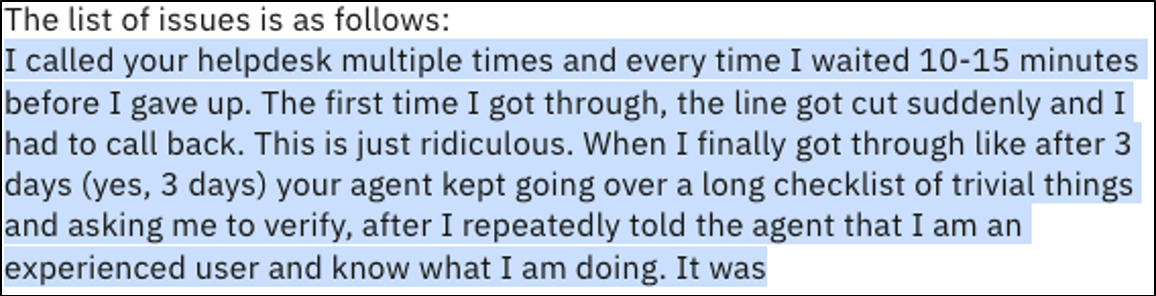
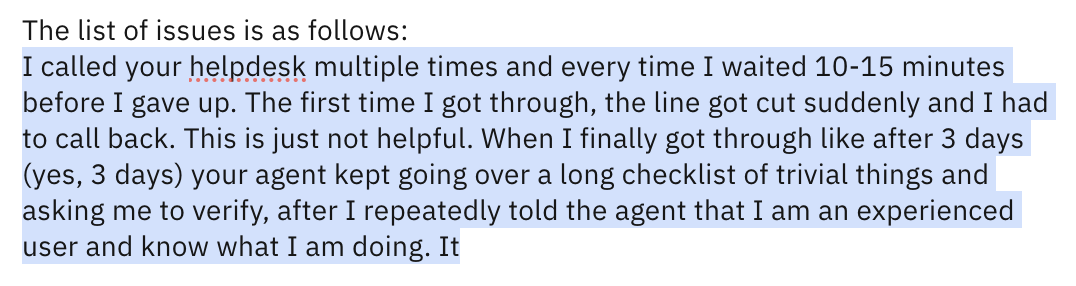
chore(.ai): update labs to reflect model changes
update 102 for model deprecation & screenshots

update 103

update 104

diff --git a/content/Watsonx/WatsonxAI/102.md b/content/Watsonx/WatsonxAI/102.md
@@ -22,7 +22,7 @@ If you have already been working in the Prompt Lab, [open a new Prompt Lab sessi
 
 2. We will again start with a slightly modified prompt. Edit the **Details** field in the **Try** section, adding "Do not add any additional information." as the final instruction. Click **Generate**.
 
-    You should see the same output as before, with the hallucinated url.
+    You should see the same output as before.
 
     ![flan-ul2_output](./images/101/flan-ul2-output.png)
 
@@ -82,7 +82,7 @@ If you have already been working in the Prompt Lab, [open a new Prompt Lab sessi
 
     ![temp_topp_output](./images/102/temp-topp-output.png)
 
-    Notice by lowering the creativity the output changed quite a bit and we no longer have the website hallucination.
+    Notice by lowering the creativity the output changed quite a bit, and we now have a rather lengthy thank you ending.
 
 6. Reset the **Temperature** value to **0.8**, and lower the **Top P** value from **1** to **0.5**. This means the next token will be chosen randomly from the top number of tokens whose collective probability is greater than 0.5. Click **Generate** again. 
 
@@ -96,9 +96,9 @@ If you have already been working in the Prompt Lab, [open a new Prompt Lab sessi
 
     ![topk_output](./images/102/topk-output.png)
 
-    The output has reverted to the original, with the url hallucination.  The model is now choosing the next token from the 25 tokens with the highest probability, so clearly the update to **Top P** resulted in fewer than 25 options for the next token.
+    The output has reverted to the original. The model is now choosing the next token from the 25 tokens with the highest probability, so clearly the update to **Top P** resulted in fewer than 25 options for the next token.
 
-8. Continue lowering the **Top K** value.  Notice that you'll have to lower it quite far (to about 4) to get rid of the hallucination and see output similar to what we got with the **Top P** modification. 
+8. Continue lowering the **Top K** value. Notice that if you lower it quite far (to about 10) you should see pretty good output with accurate info.
 
     ![topk_output2](./images/102/topk-output2.png)
 
@@ -145,9 +145,17 @@ Remember that a foundation model does not read and interpret a prompt like a hum
 4. Ensure that you are using the **flan-ul2-20b** model.  Copy and paste the following text in the input field:
 
     ```txt
-    The following paragraph is a consumer complaint. 
+    The following paragraph is a consumer complaint.
 
-    Read the following paragraph and list all the issues.   I called your helpdesk multiple times and every time I waited 10-15 minutes before I gave up. The first time I got through, the line got cut suddenly and I had to call back. This is just ridiculous. When I finally got through like after 3 days (yes, 3 days) your agent kept going over a long checklist of trivial things and asking me to verify, after I repeatedly told the agent that I am an experienced user and I know what I am doing. It was a complete waste of time. After like an eternity of this pointless conversation, I was told that an SME will contact me. That – was 2 days ago. What is the problem with your support system?
+    Read the following paragraph and list all the issues. I called your helpdesk 
+    multiple times and every time I waited 10-15 minutes before I gave up. The first 
+    time I got through, the line got cut suddenly and I had to call back. This is just not 
+    helpful. When I finally got through like after 3 days (yes, 3 days) your agent kept 
+    going over a long checklist of trivial things and asking me to verify, after I 
+    repeatedly told the agent that I am an experienced user and I know what I am 
+    doing. It was a complete waste of time. After like an eternity of this pointless 
+    conversation, I was told that an SME will contact me. That – was 2 days ago. What 
+    is the problem with your support system?
 
     The list of issues is as follows:
     ```
@@ -175,11 +183,11 @@ Remember that a foundation model does not read and interpret a prompt like a hum
 
     This is only a slight improvement. The flan models do not seem well-suited for generating a list with zero shot prompts.
 
-6. Change the model to the **mpt-7b-instruct2** model. Remove the "1." from the prompt and click **Generate**. You should see the following:
+6. Change the model to the **granite-13b-instruct-v2** model. Remove the "1." from the prompt and click **Generate**. You should see something close to the following:
 
     ![list_output3](./images/102/list-output3.png)
 
-    This looks more like what a human would expect. For this kind of request, the **mpt-7b-instruct2** model is much better than the flan models. Additionally, the model correctly interpretted that the customer was frustrated with the support system, although this was not explicitly stated. 
+    This looks more like what a human would expect. For this kind of request, the **granite-13b-instruct-v2** model is much better than the flan models. Additionally, the model correctly interpretted that the customer was frustrated with the support system, although this was not explicitly stated. 
 
 ### Prompting for JSON output
 
@@ -206,19 +214,19 @@ When using LLM's programmatically it can be advantageous to retrieve generated d
 
     The flan model responded with natural language output, which is the strength of the flan model. But clearly this is not the requested JSON.
 
-4. Select the **mpt-7b-instruct2** model and click **Generate**. You should see the following output.
+4. Select the **granite-13b-instruct-v2 ** model and click **Generate**. You should see the following output.
 
     ![json_output2](./images/102/json-output2.png)
 
-    This is the valid JSON we are looking for. Again, the smaller mpt-7b-instruct2 model seems best for the use case. 
+    This is the valid JSON we are looking for. Again, the smaller granite-13b-instruct-v2  model seems best for the use case. 
 
-5. Now let's try with the **starcoder-15.5b** model, which is trained for code generation. Select this model and click **Generate**. You should see:
+5. Now let's try with the **codellama-34b-instruct-hf** model, which is trained for code generation. Select this model and click **Generate**. You should see:
 
     ![json_output3](./images/102/json-output3.png)
 
-    Here we have a valid JSON, but with 3 double-quotes (") at the bottom. This may be due to Python code using triple quotes to delineate multi line strings.
+    Here we have a valid JSON, but the indentation has some issues, and there is a lot of white space.
 
-6. If we still wanted to go with the **starcoder-15.5b**, we can use **Stop sequences** to eliminate the triple double-quotes. Open the **Model parameters** panel and enter `}<carriage return>}` in the Stop sequences text box. (You can type a carriage return by pressing the *Enter* or *Return* key on your keyboard.)
+6. If we still wanted to go with the **codellama-34b-instruct-hf**, we can use **Stop sequences** to clean up the output. Open the **Model parameters** panel and enter `}↵}` in the Stop sequences text box. (You can type a carriage return by pressing the *Enter* or *Return* key on your keyboard.) Let's also add an instruction to format the output. The updated instructions should read: `Create a JSON file output with the following information, and please format it properly.`
 
     <QuizAlert text='Quiz question on stop sequences!' />
 

diff --git a/content/Watsonx/WatsonxAI/101.md b/content/Watsonx/WatsonxAI/101.md
@@ -91,21 +91,25 @@ Other controls, like updating inference configuration parameters, will be discus
 
 ## Exploring foundation models with a zero-shot prompt
 
-There are 6 open-source foundation models available in watsonx.ai as of 4Q2023.
+There are the available foundation models in watsonx.ai as of March 2024.
 
 | Model | Architecture | Parameters | Trained by | Usage |
 | ----- | ------------ | ---------- | ---------- | ----- |
-| flan-ul2-20b | Encoder-decoder | 20b | Google | Generation, Extraction, Summarization, Classification, Question Answering, RAG |
-| Starcoder-15-5b | Decoder only |15.5b | BigCode | Code generation, Code conversion |
+| Starcoder-15-5b * | Decoder only |15.5b | BigCode | Code generation, Code conversion |
 | mt0-xxl-13b | Encoder-decoder | 13b | BigScience | Generation, Summarization, Classification, Question Answering |
-| gpt-neox-20b | Decoder only | 20b  | EleutherAI | Generation, Summarization, Classification |
+| codellama-34b-instruct-hf | Encoder-decoder | 34b | Code Llama | Code generation and conversion |
+| flan-t5-xl-3b | Encoder-decoder | 3b | Google | Generation, Extraction, Summarization, Classification, Question Answering, RAG |
 | flan-t5-xxl-11b | Encoder-decoder | 11b | Google | Generation, Extraction, Summarization, Classifciation, Question Answering, RAG |
-| mpt-7b-instruct2 | Decoder only | 7b | IBM | Generation, Extraction, Summarization, Classification |
+| flan-ul2-20b | Encoder-decoder | 20b | Google | Generation, Extraction, Summarization, Classification, Question Answering, RAG |
+| mixtral-8x7b-instruct-v01-q | Decoder only | 46.7b | Mistral AI, tuned by IBM | Summarization, RAG, Classification, Generation, Code generation and conversion, Extraction |
+| llama-2-13b-chat | Decoder only | 13b | Meta | Generation, Extraction, Summarization, Classification, Question Answering, RAG, Code generation, Code conversion |
 | llama-2-70b-chat | Decoder only | 70b | Meta | Generation, Extraction, Summarization, Classification, Question Answering, RAG, Code generation, Code conversion |
+
+\* Deprecated
 
 More will be added as other foundation models are vetted and deemed appropriate for watsonx.ai.  
 
-> There are also 2 IBM models available, the granite-13b-chat-v1 and granite-13b-instruct-v1 models, which will be covered in detail in a future iteration of this lab. 
+> There are also several IBM models available, the granite-13b-chat-v2, granite-13b-instruct-v2 and granite-20b-multilingual models, which will be covered in detail in a future iteration of this lab. 
 
 1.  On the <span>left hand panel</span>, click the sample prompt icon, **]&#8414;[**.
 
@@ -180,6 +184,8 @@ More will be added as other foundation models are vetted and deemed appropriate 
 
     This will bring up the following panel of available foundation models.
 
+    > **Note:** If you are using watsonx.ai on-prem you may see different models as supported by your GPUs.
+
     ![foundation_models](./images/101/foundation-model-panel.png)
 
     Selecting any of these options will show more information in the form of a model card. 
@@ -202,16 +208,15 @@ More will be added as other foundation models are vetted and deemed appropriate 
 
     > Note: the larger model hallucinated a phone number for the bank. Here is an example where a larger foundation model performed worse than the smaller one. 
 
-10. Repeat Steps 6-9, this time selecting the **mpt-7b-instruct-2** model. You should see the following generated output:
+10. Repeat Steps 6-9, this time selecting the **mt0-xxl-13b** model. You should see the following generated output:
     
-    ![mpt-7b_output](./images/101/mpt-7b-email-output.png)
-    > NOTE: This model also hallucinated, adding a date of Dec 12, 2021.  This is likely due to this particular model being trained on data up to 2021. 
+    ![mt0-xxl_output](./images/101/mt0-xxl-email-output.png)
+    > NOTE: This model also hallucinated, adding a date of July 15, 2016.  This is likely due to this particular model being trained on data up to 2016. 
 
 11. Switch to the **llama-2-70b-chat** model and try the same prompt one more time.  You should see the following output:
 
     ![llama2_output](./images/101/llama2-email-output.png)
-    This model hallucinated a URL for the bank and included a July date but misses the important detail of July 15. 
-
+    This output is decent but has some issues with spelling and weird characters. Here we want to illustrate that just because a model has more parameters, doesn't mean it gives you better output.
 
 
 ## Prompt engineering - updating a zero-shot prompt
@@ -228,9 +233,9 @@ Now let's experiment with altering our zero-shot prompt to see if we can achieve
 
     ![details_update](./images/101/details-update.png)
 
-    You should now see that the made up portion of "You can now monitor all of your Golden Bank accounts from home" has been removed.
+    You should now see a better answer without the "Contact us" line.
 
-4. Switch to the **flan-ul2-20b** model.  Recall in the previous lab this model hallucinated and provided a made up phone number. Click **Generate** to see how this model responds to the updated prompt. 
+4. Lets switch to the **flan-ul2-20b** model.  Recall in the previous lab this model hallucinated and provided a made up phone number. Click **Generate** to see how this model responds to the updated prompt. 
 
     ![flan-ul2_output](./images/101/flan-ul2-output.png)
 
@@ -258,7 +263,7 @@ Now let's experiment with altering our zero-shot prompt to see if we can achieve
 
     ![llama2_output2](./images/101/llama2-output2.png)
 
-    While this makes a huge difference in the length of the output, it still hallucinates a URL and makes a date error. A model this size is far more creative and unpredictable. For some tasks, like our marketing email, it may be better to use a smaller model.
+    While this makes some difference in the output, it still hallucinates a URL and makes a date error and other strange sentences. A model this size is far more creative and unpredictable. For some tasks, like our marketing email, it may be better to use a smaller model.
 
 
 ## Lab summary

diff --git a/content/Watsonx/WatsonxAI/103.md b/content/Watsonx/WatsonxAI/103.md
@@ -25,12 +25,24 @@ Thus far, we have used zero-shot prompting and utilized parameter updates, promp
 4. Copy and paste the following text into the **Try** section's **Input** field.
 
     ```txt
-    The following paragraph is a consumer complaint. The complaint is about one of these options: credit cards, credit reporting, mortgage and loans, retail banking, or debt collection. Read the following paragraph and list all the issues.
-    
-    I called your help desk multiple times and every time I waited 10-15 minutes before I gave up. This is just ridiculous. When I finally got through like after 3 days (yes, 3 days) your agent kept going over a long checklist of trivial things and asking me to verify, after I repeatedly told the agent that I am an experienced user and I know what I am doing, It was a complete waste of time.  After like an eternity of this pointless conversation, I was told that an SME will contact me. That - was 2 days ago. What is the problem with your support system? 
+    The following paragraph is a consumer complaint. The complaint is about one of these 
+    options: credit cards, credit reporting, mortgage and loans, retail banking, or debt 
+    collection. Read the following paragraph and list all the issues.
+
+    I called your help desk multiple times and every time I waited 10-15 minutes before I 
+    gave up. This is just ridiculous. When I finally got through like after 3 days (yes, 3 days) 
+    your agent kept going over a long checklist of trivial things and asking me to verify, after 
+    I repeatedly told the agent that I am an experienced user and I know what I am doing, 
+    It was a complete waste of time. After like an eternity of this pointless conversation, I 
+    was told that an SME will contact me. That - was 2 days ago. What is the problem with 
+    your support system?
     ```
 
     Click **Generate**.  You should see the following output:
+
+    ![prompt_output](./images/103/prompt-output-inappropriate.png)
+
+    The AI guardrails are clearly erring on the safe side. Let's turn them off or remove the word "ridiculous" and try again.
 
     ![prompt_output](./images/103/prompt-output.png)
 

diff --git a/content/Watsonx/WatsonxAI/104.md b/content/Watsonx/WatsonxAI/104.md
@@ -12,6 +12,8 @@ In previous sections, you have been working with prompt engineering via the cons
 
 To run a Jupyter notebook, you will need your API key. If you have not generated one before, you can do so by following the steps below.
 
+> **Note:** When using watsonx.ai on-prem (CP4D) the process is slightly different. For this exercise you will not need an api key, as the `ibm_watson_studio_lib` python package can be invoked to authenticate your current session. You can however find instructions to obtain a key [here.](https://www.ibm.com/docs/en/cloud-paks/cp-data/4.8.x?topic=steps-generating-api-keys) 
+
 1. Log onto the IBM Cloud Console, or if you are using the Prompt Lab, you can click the icon in the upper left corner.
 
 ![](./images/104/image123.png)
@@ -118,15 +120,16 @@ After this change, you will not need to provide your key for each run session of
 
 10. The following cell identifies the model you are using. For the 5 models available, here are the respective names you should use for **model_id** in a Jupyter notebook:
 
+- **granite-13b-chat-v2** model_id="ibm/granite-13b-chat-v2"
 - **flan-ul2-20b** model_id="google/flan-ul2"
+- **flan-t5-xl-3b** model_id="google/flan-t5-xl"
 - **flan-t5-xxl-11b** model_id="google/flan-t5-xxl"
-- **gpt-neox-20b** model_id="eleutherai/gpt-neox-20b"
-- **mpt-7b-instruct2** model_id="ibm/mpt-7b-instruct2"
 - **mt0-xxl-13b** model_id="bigscience/mt0-xxl"
-- **starcoder-15.5b** model_id="bigcode/starcoder"
 - **llama-2-70b-chat** model_id="meta-llama/llama-2-70b-chat"
+- **codellama-34b-instruct-hf** model_id="codellama/codellama-34b-instruct-hf"
+- **mixtral-8x7b-instruct-v01-q** model_id="ibm-mistralai/mixtral-8x7b-instruct-v01-q"
 
-11. The next section contains a list of the model parameters that you can update. These are the same ones as from the user interface.
+1.  The next section contains a list of the model parameters that you can update. These are the same ones as from the user interface.
 
 - **decoding_method** greedy or sample
 - **min_new_tokens** 0 or larger

diff --git a/content/Watsonx/WatsonxAI/100.md b/content/Watsonx/WatsonxAI/100.md
@@ -1,6 +1,6 @@
 ---
 title: '100: Resources and FAQs'
-updated: 2023-09-08
+updated: 2024-04-03
 toc: true
 ---
 
@@ -8,9 +8,11 @@ toc: true
 
 ## Tech Zone Resources
 
-- **[watsonx.ai](https://techzone.ibm.com/collection/tech-zone-certified-base-images/journey-watsonx)**
+- **[watsonx.ai certified base images](https://techzone.ibm.com/collection/tech-zone-certified-base-images/journey-watsonx)**
 
-- **[watsonx Assistant and Watson Discovery](https://techzone.ibm.com/collection/watson-enterprise/environments)**
+- **[watsonx.ai with Assistant and Discovery options](https://techzone.ibm.com/collection/watson-enterprise/environments)**
+
+- **[watsonx.ai with watsonx.governance](https://techzone.ibm.com/my/reservations/create/64b8490a564e190017b8f4eb)**
 
 
 ## How do I access a watsonx.ai instance?
